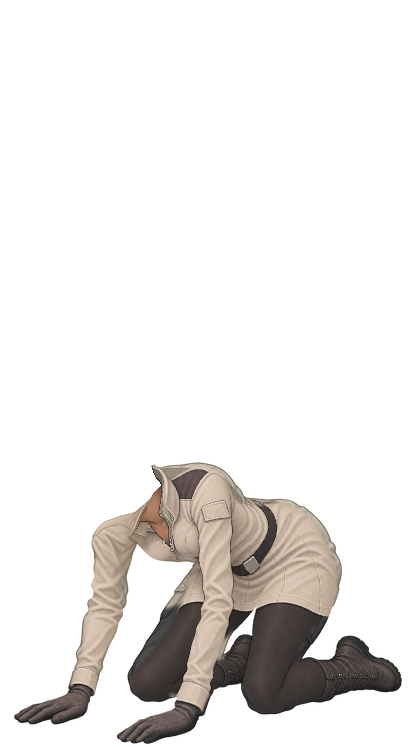
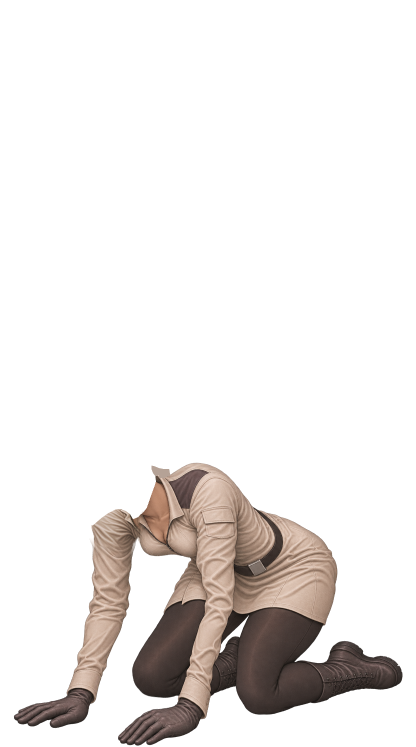
Fix W8 prisoner portrait fit and publish KA4V7N pose sheets

Changed region(s): [[0.0312, 0.6158, 0.9688, 1.0], [0.6562, 0.8929, 0.6875, 0.9237]]

diff --git a/DB/Documentation/06-Tooling/ThreeQuarterCharacterCodexPrompt.md b/DB/Documentation/06-Tooling/ThreeQuarterCharacterCodexPrompt.md
@@ -168,13 +168,30 @@ No photorealism, no 3D render, no anime eyes, no cel shading, no rim light, no m
 
 Храни исходные рисунки по позам в `work/imagegen/xxxxxx/raw/standing/<emotion>.png` и `raw/prisoner/<emotion>.png` внутри того же рабочего каталога. При генерации четырёх эмоций одним листом сохрани исходный лист, извлеки рисунки в порядке `pain, anger, joy, pleasure` и перенеси области мимики на принятую голову соответствующей позы. Запросы обеих поз запиши в `work/imagegen/xxxxxx/prompts.md`.
 
+### Обязательная проверка мимики в обеих позах
+
+1. Для каждой эмоции используй `neutral` этой позы как основу редактирования. При переносе из листа эмоций сначала совмести переносицу, кончик и основание носа, ближнее ухо и челюсть с нейтральным рисунком. Проверь эти ориентиры на наложении исходников в игровых координатах. Если они расходятся, перегенерируй эмоцию от принятого `neutral` или перерисуй мимику непосредственно на нём.
+2. Если переносишь фрагмент мимики, полностью замени область старой и новой черты вместе с прилегающей кожей. Для брови и века маска должна покрывать обе позиции их контура. Для рта включи обе линии губ и уголки. Используй 100% покрытия по всем линиям, а плавный переход проводи только по участкам кожи между чертами. Сохрани нос из `neutral` попиксельно, включая переносицу, кончик и ноздри. При пересечении границы маски с чертой перерисуй участок как единое целое.
+3. Перед публикацией перечитай оба готовых PNG. Для каждой позы проверь все пять ячеек в 1:1 и при увеличении ×4 через NEAREST. По маске, размеченной на `neutral`, сравни RGBA носа и участков вне разрешённой мимики попиксельно с первой ячейкой. Переключи `neutral` и каждую эмоцию по очереди в одной точке. На лице должна быть одна линия каждой видимой брови, один читаемый контур каждого века и рта. Проверь отсутствие остаточных штрихов, раздвоений, обрывов линий и швов на коже. Любой такой дефект блокирует публикацию атласа. Исправь кадр, заново собери атлас и повтори проверку сохранённого PNG.
+
+4. Проверь правдоподобность и соразмерность лица целиком в каждой сохранённой ячейке. Сравни размеры и положение черт с `neutral` той же позы и с перспективой головы. Учитывай движение мягких тканей при эмоции и сокращение дальней стороны лица. Просмотри следующие признаки в 1:1 и при ×4.
+
+   | Черта | Условие выпуска |
+   |---|---|
+   | Губы и рот | Верхняя и нижняя губа сходятся в тех же двух уголках. При улыбке или открытом рте контуры образуют один цельный проём. Ширина рта, высота губ и расстояние до подбородка правдоподобны для этого лица и выражения. Зубы расположены внутри проёма. Лишние линии, обрыв в уголке и разрыв рисунка на границе маски блокируют выпуск. |
+   | Брови | Каждая видимая бровь образует цельную линию над своим глазом. Сдвиг и изгиб передают эмоцию в пределах надбровной дуги. Длина и толщина согласованы с `neutral` и с ракурсом. |
+   | Нос | Переносица, кончик и ноздри образуют один объём, сохраняют ширину, высоту, ракурс и попиксельное совпадение с `neutral`. Проверь прилегающую кожу, где могут остаться штрихи от второго носа. |
+   | Глаза | Веки сходятся в уголках, совместно охватывают глаз и закрывают соответствующую часть радужки. Высота глазной щели, размер радужек и направление взгляда согласованы между глазами с учётом поворота головы. При закрытии век сохраняются их посадка и пропорции. |
+
+   Отклонение любой черты от строения лица или ракурса считается дефектом и блокирует публикацию. Исправь соответствующую эмоцию и повторно проверь её по сохранённому PNG.
+
 ## Шаг 3. Слои и регистрация
 
 Для каждой эмоции:
 
 1. Убери фон, альфа straight. Почти непрозрачное (альфа ≥ 248) сделай 255.
 2. Уменьши обратно в игровое разрешение тем же преобразованием, что подложку: ×1/5, ресемплинг BOX на premultiplied alpha, смещение (40, 0) в холсте 282×747.
-3. Проверь совмещение с `work/outfit/GREEN.uncut.png` по шее и вороту. Посадку и масштаб определи по `neutral` и зафиксируй для всех эмоций. При дрейфе отдельного рисунка совмести его мимику с нейтральным мастером до переноса бровей, век и рта. Если высота подбородка и уха верна, а кожа выступает вбок либо образует выемку, оставь голову на месте. В нижней части слоя `face` восстанови контур из общего тела. Сохрани тень под челюстью внутри контура, а на боковых кромках передай покрытие общему слою шеи. Применяй принятую посадку ко всем пяти эмоциям.
+3. Проверь совмещение с `work/outfit/GREEN.uncut.png` по шее и вороту. Посадку и масштаб определи по `neutral` и зафиксируй для всех эмоций. При переносе бровей, век и рта выполни обязательную проверку мимики из шага 2. Если высота подбородка и уха верна, а кожа выступает вбок либо образует выемку, оставь голову на месте. В нижней части слоя `face` восстанови контур из общего тела. Сохрани тень под челюстью внутри контура, а на боковых кромках передай покрытие общему слою шеи. Применяй принятую посадку ко всем пяти эмоциям.
 4. Раздели на три слоя: `back-hair` (волосы позади шеи и плеч), `face` (голова, лицо, шея до ворота), `front-hair` (пряди поверх лица и плеч). Пикселей комбинезона в слоях быть не должно.
 5. Сохрани оттенок лица принятого `neutral` во всех эмоциях. Подбери `skinTone` для коррекции общей кожи. Если берёшь маски или регистрацию из `prepare_batch_layers.py`, сохрани цвет лица до его преобразования `tint_skin` к `bodySkinTarget`. Цветовую примерку выполни отдельно на шаге 5.
 
@@ -274,9 +291,9 @@ check_standing_neck("XXXXXX")
 
 Холст, точки суставов, шов и список костюмов бери из [шаблона пленного](../../../src/DeepSpaceSaga.Client/Images/Persons/W8/Clothes/Prisoner/Templates/README.md) и его [pose.json](../../../src/DeepSpaceSaga.Client/Images/Persons/W8/Clothes/Prisoner/Templates/pose.json).
 
-1. Возьми [готовую подложку пленного](../../../../DSS-Images/Characters/W8/Antropik/work/imagegen/vl8h3a/prisoner-underlay.png) (850×845) и сохрани копию как `work/imagegen/xxxxxx/prisoner-underlay.png`. Она задаёт камеру и посадку; личность, оттенок кожи и причёску бери с принятого стоящего `neutral` нового персонажа. Для обновления подложки сложи [текущее тело GREEN](../../../src/DeepSpaceSaga.Client/Images/Persons/W8/Clothes/Prisoner/GREEN.png) с головой на холсте 416×747. При наличии файла `referenceHead` из манифеста положи его в (0, 0). При его отсутствии возьми первую ячейку [проверенного атласа пленного VL8H3A](../../../src/DeepSpaceSaga.Client/Images/Persons/W8/Portraits/vl8h3a/prisoner.png) и вставь её в (48, 416). Вырежи `(41, 412, 211, 581)` с исключающими правой и нижней границами, увеличь ×5 через NEAREST и положи на однотонный фон. Для численной проверки стыка в обоих случаях используй маски шаблона.
+1. Собери свежую подложку на текущем клиентском GREEN. Для головы возьми первую ячейку проверенного атласа VL8H3A в (48, 416). Если его нет в рабочем каталоге, доступна копия из истории Git. Допустим другой проверенный игровой атлас этой позы. Вырежи область `(41, 412, 211, 581)` с исключающими правой и нижней границами, увеличь ×5 методом NEAREST на однотонном фоне и сохрани как `work/imagegen/xxxxxx/prisoner-underlay.png`. Подложка задаёт камеру и положение воротника и поднятого плеча. Личность бери из принятой стойки нового персонажа.
 2. В эталоне видна макушка, голова глубоко наклонена и повёрнута вниз-влево по экрану. Ближнее ухо находится справа и выше глаз. Глаза узкие из-за ракурса, дальний глаз частично закрыт переносицей. Кончик носа ниже глаз и левее подбородка. Челюсть уходит вверх-вправо к уху, кожа шеи подходит к открытому вороту. Альфа эталона занимает `(63, 431, 162, 547)` на общем холсте. Сохраняй масштаб черепа, наклон и положение шва. Волосы конкретного персонажа должны помещаться в ячейку и учитывать перекрытие воротника, плеча и руки. Стык с телом определяй по исходным слоям. Условие для эталона относится к голове из шаблона; форму волос нового персонажа сверяй с его собственным `neutral`.
-3. Зарегистрируй нейтральную голову в координатах тела один раз. Подгоняй переносом и при необходимости равномерным масштабированием. Сверяй макушку, ближнее ухо, переносицу, подбородок и шов на прозрачном холсте. Рисунок мимики для остальных эмоций задавай правками принятого neutral. Переноси только брови, веки и рот с прилегающей кожей. Вне этих областей копируй RGBA neutral. Сохраняй силуэт, ухо, нос, причёску и пиксели шва.
+3. Зарегистрируй нейтральную голову в координатах тела один раз. Подгоняй переносом и при необходимости равномерным масштабированием. Сверяй макушку, ближнее ухо, переносицу, подбородок и шов на прозрачном холсте. Рисунок мимики для остальных эмоций задавай правками принятого neutral. Переноси брови, веки и рот с прилегающей кожей по правилам обязательной проверки мимики из шага 2. Вне этих областей копируй RGBA neutral. Сохраняй силуэт, ухо, нос, причёску и пиксели шва.
 
 ### Готовый запрос ImageGen для пленного
 
@@ -289,8 +306,12 @@ facial structure, hairline, hairstyle, hair color and complexion.
 Draw the same person in the bowed prisoner pose, with the crown visible. The near
 ear sits above and to the right of the near eye in screen coordinates. The gaze
 points down, the bridge partly hides the far eye, the nose tip is below the eyes
-and the jaw returns upward-right to the ear. Keep the same tight neck docking
-contour and visible skin at the open collar. Keep pose and crop fixed.
+and the jaw returns upward-right to the ear. Preserve the entire near cheekbone, the cheek turning into the jaw angle and the
+rounded chin. Draw the small, continuous patch of upper throat below the jaw,
+ending at the Adam’s apple level. Give it a soft contact shadow under the chin.
+Let that patch overlap the body’s upper neck inside the open collar. Keep the nape
+hair attached in clean tapered masses, with clear skin behind the ear. Keep the
+pose and crop fixed. The guide supplies placement; trace this character’s own contours.
 Use W8 matte hand-painted rendering, brown contours, subdued warm skin shadows,
 soft upper-left light and broad, muted hair highlights.
 Expression: <emotion>. In the bowed view express it with brows, lids and mouth.
@@ -300,13 +321,15 @@ head outline and neck fixed. Export the isolated head and exposed neck on a tran
 
 Используй порядок `neutral, pain, anger, joy, pleasure`. Для pain подними внутренние края сведённых бровей и сожми веки. Для anger опусти брови к переносице и напряги рот. Для joy приподними щёки и покажи широкую улыбку. Для pleasure оставь расслабленные веки и мягкую закрытую улыбку.
 
-Сохрани пять зарегистрированных слоёв головы с прозрачным фоном в `work/imagegen/xxxxxx/prisoner-layers/<emotion>.png`. Каждый рабочий PNG имеет полный холст 416×747. Зафиксируй области мимики на собственном `neutral` до переноса остальных эмоций, чтобы проверить неизменность рисунка за их пределами.
+До переноса мимики сверь отдельный нейтральный слой с оригиналом ImageGen. Сохрани попиксельно принятый результат в `work/imagegen/xxxxxx/prisoner-neutral-fit.png` на полном холсте 416×747. Допустим один перенос и равномерное масштабирование. На увеличении ×4 проверь тот же рисунок на светлом и тёмном фоне, затем на каждом костюме. Проследи скулу от виска до угла челюсти, край под подбородком, видимую полоску собственной кожи до уровня кадыка и затылочные пряди за ухом. Признаки брака — срезанная по прямой щека, выступ или прорезь под подбородком, отдельно висящие штрихи, внутренний пунктир в волосах и светлый ореол. Если собственный контур и стык не совмещаются, исправь посадку или перерисуй нейтральный источник. Запрещено присваивать пикселям головы альфу `portraitAlpha`, вычитать из головы силуэт тела или заполнять нехватающую кожу растяжением крайнего пикселя. Заканчивай верхнюю шею внутри открытой кожи тела. Если нужен мягкий переход, разметь его только вдоль нижней кромки этого участка, сохранив скулу, челюсть и волосы по исходнику.
+
+Сохрани пять зарегистрированных слоёв головы с прозрачным фоном в `work/imagegen/xxxxxx/prisoner-layers/<emotion>.png`. Каждый рабочий PNG имеет полный холст 416×747. До переноса мимики сохрани на полном холсте одноканальные PNG `prisoner-expression-mask.png` (брови, веки и рот с прилегающей кожей) и `prisoner-nose-lock.png` (неподвижный нос). Белым отметь проверяемые области. Оба файла положи рядом с `prisoner-neutral-fit.png`.
 
 ### Экспорт и проверка пленного
 
 1. Вырежи для каждой эмоции прямоугольник `(48, 416, 184, 560)` из головы в координатах тела. Сохрани пять ячеек **136 × 144** в один ряд, слева направо, как прозрачный **680 × 144** RGBA8 PNG `prisoner.png` в общей папке `Portraits/<id>/`. Прозрачные поля сохраняют посадку.
-2. Для сборки сначала нарисуй выбранное тело `Clothes/Prisoner/{GREEN,GRAY,IVORY}.png`, затем нужную ячейку `prisoner.png` в **(48, 416)** без поворота, масштабирования или подгонки к высоте стойки. Ячейка с индексом `i` начинается в x=`136*i`. Используй общий `skinTone`. Маска стоящего тела относится только к стойке. Для коррекции открытой кожи используй `Clothes/Prisoner/Templates/skin-mask.png` и `referenceSkinTone` из шаблона позы.
-3. Выполни обязательную проверку стыка по сохранённым PNG. Перечитай `Portraits/<id>/prisoner.png` с диска и проверь формат RGBA8 и размер 680 × 144. Возьми из `Templates/pose.json` размеры ячейки, точку вставки, маску `neckProtect` и эталон альфы `portraitAlpha`. Разложи каждую ячейку на прозрачном холсте 416 × 747 в точке `drawOrigin`. Для каждого ненулевого пикселя маски `neckProtect` сравни альфу портрета с `portraitAlpha` по тем же координатам. Допуск — **0 пикселей и 0 уровней альфы**. В той же маске сверь RGBA каждого тела с эталонным GREEN до коррекции `skinTone`. Это проверяет посадку шеи и геометрию воротника, сохраняя цвет кожи персонажа.
+2. Для сборки сначала нарисуй выбранное тело `Clothes/Prisoner/{GREEN,GRAY,IVORY}.png`, затем нужную ячейку `prisoner.png` в **(48, 416)** без поворота, масштабирования или подгонки к высоте стойки. Ячейка с индексом `i` начинается в x=`136*i`. Используй общий `skinTone`. Маска стоящего тела относится только к стойке. Для коррекции открытой кожи используй `masks.skinByOutfit[ID]` или базовую `masks.skin` для костюмов с геометрией GREEN. Базовый тон задан полем `referenceSkinTone` в шаблоне позы.
+3. Перечитай сохранённый атлас RGBA8 680×144 и восстанови ячейки в `drawOrigin`. На полосе верхнего среза тела между `landmarks.upperNeckFront` и `upperNeckBack` проверь совпадение с полностью непрозрачной частью `portraitAlpha` попиксельно с допуском 0. Пример ниже строит полосу по координатам шаблона. В этой же полосе сверь пиксели каждого исходного тела с GREEN до тонирования. Более широкая маска `neckProtect` захватывает и видимый воротник. При создании портрета сверь каждый костюм с его собственным исходным PNG по хешу. Цвет и форму открытого ворота осмотри отдельно на каждой сборке. Альфу головы по всему холсту сравни с отдельно принятым `prisoner-neutral-fit.png` этого персонажа. Нижнюю кромку его полоски кожи проверь на открытой коже всех трёх тел со значением `skinTone` персонажа. У ZR8M5C прежняя проверка пропускала выступ именно там, где заканчивалась маска. Осмотри обе стороны этой границы и изолированную голову за ухом.
 4. У всех пяти ячеек должны быть одна точка вставки и одна регистрация принятого `neutral`. Сравни альфа-каналы целиком и RGBA вне областей мимики с сохранённой ячейкой `neutral`. Требуется попиксельное совпадение. Не подгоняй отдельные эмоции после экспорта. При расхождении укажи эмоцию, костюм для проверки тела и первую координату на холсте, исправь исходный слой и повтори проверку после сохранения.
 5. Собери пять эмоций на каждом доступном костюме пленного из перечитанных PNG. Проверь, что у воротника нет просветов и что в портрет не попала ткань. Проверь отличимость выражений и узнаваемость персонажа между позами.
 
@@ -342,6 +365,25 @@ def export_prisoner(character):
         guard = np.array(mask) > 0
     with Image.open(template / pose["masks"]["portraitAlpha"]) as ref:
         expected = np.array(ref)
+    front, back = (pose["landmarks"][k] for k in ("upperNeckFront", "upperNeckBack"))
+    yy, xx = np.indices(expected.shape)
+    lo, hi = sorted((front[0], back[0]))
+    assert hi > lo
+    cut_y = front[1] + (xx - front[0]) * (back[1] - front[1]) / (back[0] - front[0])
+    # Полоса включает сглаженную верхнюю дугу между двумя точками.
+    seam = guard & (expected == 255) & (xx >= lo) & (xx <= hi) & (np.abs(yy - cut_y) <= 4)
+    assert seam.any() and np.all(seam[:, lo:hi+1].any(axis=0)), "incomplete neck seam"
+    with Image.open(layers.parent / "prisoner-neutral-fit.png") as master:
+        assert master.mode == "RGBA" and master.size == tuple(pose["canvas"])
+        own_neutral = np.array(master.crop(box))
+    assert np.array_equal(cells[0], own_neutral), "neutral differs from accepted artwork"
+    locks = {}
+    for key in ("expression-mask", "nose-lock"):
+        with Image.open(layers.parent / f"prisoner-{key}.png") as mask:
+            assert mask.mode == "L" and mask.size == tuple(pose["canvas"]), key
+            locks[key] = np.array(mask.crop(box)) > 0
+            assert locks[key].any(), key
+    fixed = ~locks["expression-mask"] | locks["nose-lock"]
     with TemporaryDirectory(dir=target.parent) as stage:
         candidate = Path(stage) / target.name
         Image.fromarray(np.concatenate(cells, axis=1)).save(candidate)
@@ -351,9 +393,10 @@ def export_prisoner(character):
                 cell = np.array(image.crop((i*w, 0, (i+1)*w, h)))
                 assert np.array_equal(cell, cells[i]), emotion
                 assert np.array_equal(cell[..., 3], cells[0][..., 3]), emotion
+                assert np.array_equal(cell[fixed], own_neutral[fixed]), emotion
                 full = np.zeros(expected.shape, dtype=np.uint8)
                 full[y:y+h, x:x+w] = cell[..., 3]
-                assert np.array_equal(full[guard], expected[guard]), emotion
+                assert np.array_equal(full[seam], expected[seam]), emotion
         candidate.replace(target)
 
 export_prisoner("XXXXXX")

diff --git a/DB/Documentation/06-Tooling/ThreeQuarterOutfitCodexPrompt.md b/DB/Documentation/06-Tooling/ThreeQuarterOutfitCodexPrompt.md
@@ -1,14 +1,19 @@
-# Промпт Codex для нового костюма W8 в три четверти
+# Промпт Codex для нового костюма W8 в двух позах
 
 Скопируй всё ниже линии. Подставь ID костюма и описание. Костюм использует ту же фигуру и точку крепления головы, что и первый костюм GREEN. Рисунок одежды можно менять в разрешённой области. Посадка общих портретов обеспечивается попиксельным сохранением базовой геометрии.
 
 ---
 
-Поза пленного использует [свой шаблон](../../../src/DeepSpaceSaga.Client/Images/Persons/W8/Clothes/Prisoner/Templates/README.md). Для неё бери холст 416 × 747, ориентиры, маску шеи и область восстановления правого плеча из этого шаблона.
+По одному запросу выпусти один дизайн в двух позах под одним ID. Сначала подготовь стойку в три четверти, затем перенеси её дизайн на готовое тело пленного. Оба результата — отдельные PNG тела без головы. Для проверки используй пять эмоций VL8H3A в каждой позе.
+
+| Поза | Клиентский PNG относительно `Images/Persons/W8/` | Манифест | Значение `outfits[ID]` |
+|---|---|---|---|
+| Стойка | `Clothes/ThreeQuarterOutfit/<ID>.png` | [three-quarter-right/pose.json](../../../../DSS-Images/Characters/W8/Antropik/three-quarter-right/pose.json) | `Clothes/ThreeQuarterOutfit/<ID>.png` |
+| Пленный | `Clothes/Prisoner/<ID>.png` | [Clothes/Prisoner/Templates/pose.json](../../../src/DeepSpaceSaga.Client/Images/Persons/W8/Clothes/Prisoner/Templates/pose.json) | `../<ID>.png` |
 
 ## Параметры
 
-- ID костюма — новый ключ из заглавных букв `A–Z`, например `UTILITY`. Проверь, что ключ свободен в `pose.json → outfits` и в клиентском каталоге костюмов ещё нет файла `<ID>.png`.
+- ID костюма — новый ключ из заглавных букв `A–Z`, например `UTILITY`. До генерации проверь, что ID свободен в обоих словарях `outfits`, обоих клиентских каталогах и по пути `work/outfit/<ID>.uncut.png`. При занятом ID сохрани существующие файлы и записи.
 - Описание — назначение костюма, цвета, материалы и детали. Изменения должны помещаться внутри контура GREEN.
 - По умолчанию готовь новый рисунок одежды. Если запрошена только расцветка, примени перекраску из шага 3.
 
@@ -21,7 +26,7 @@
 
 Рабочая папка — `D:/DeepSpaceSaga/DSS-Images/Characters/W8/Antropik`. Python — `D:/DeepSpaceSaga/DSS-Images/tools/modular-character-pilot/.venv/Scripts/python.exe`.
 
-Каталог готовых костюмов — `D:/DeepSpaceSaga/DSS/src/DeepSpaceSaga.Client/Images/Persons/W8/Clothes/ThreeQuarterOutfit`.
+Клиентский корень W8 — `D:/DeepSpaceSaga/DSS/src/DeepSpaceSaga.Client/Images/Persons/W8`. Зафиксируй исходное состояние обоих манифестов, базовых тел, направляющих, масок и [портрета VL8H3A](../../../src/DeepSpaceSaga.Client/Images/Persons/W8/Portraits/vl8h3a). Шаги 1–4 относятся к стойке.
 
 ## Шаг 1. Зафиксируй базу и области правки
 
@@ -69,12 +74,26 @@ Keep details inside the original body silhouette.
 
 Проверь точное равенство массивов. В отчёте об ошибке укажи первую координату, число отличающихся пикселей и ожидаемый слой. Если проверка выявила изменение защищённой области, восстанови её из GREEN и повтори проверку сохранённого файла.
 
-В изолированной копии конфигурации добавь путь временного кандидата в `outfits` и укажи в `portraitAtlas` абсолютный шаблон до клиентского `W8/Portraits/{id}/threequarter.png`. Скопируй в конфигурацию направляющую по пути `neckSeam.bodyGuide` и сохрани `neckSeam.bodyHasFullNeck = true`. Запусти `tools/dss3q.py validate --pose <временная папка позы> --outfit <ID> --character 73R83G`. Эта команда сверяет верх шеи с направляющей и проверяет непрозрачность строки стыка. Сравнения из таблицы отдельно гарантируют соответствие базовому костюму.
+В изолированной копии конфигурации добавь путь временного кандидата в `outfits` и укажи в `portraitAtlas` абсолютный шаблон до клиентского `W8/Portraits/{id}/threequarter.png`. Скопируй в конфигурацию направляющую по пути `neckSeam.bodyGuide` и сохрани `neckSeam.bodyHasFullNeck = true`. Запусти `tools/dss3q.py validate --pose <временная папка позы> --outfit <ID> --character VL8H3A`. Эта команда сверяет верх шеи с направляющей и проверяет непрозрачность строки стыка. Вызови `dss3q.compose_image` с той же временной позой, `VL8H3A`, новым ID и каждой эмоцией из `expressions`. Компоновщик читает `threequarter.png` (720 × 190) и накладывает ячейку 144 × 190 в (69, 0) с учётом цельной шеи тела. Проверь наружный контур под ухом и открытый ворот на готовых кадрах. Сравнения из таблицы отдельно гарантируют соответствие базовому костюму.
 
 Осмотри сам костюм в масштабе 1:1. Попиксельные условия выше покрывают совместимость с портретами всех эмоций, поэтому ручная примерка каждой головы при выпуске костюма не требуется. Если дизайн нуждается в новом контуре, другом вырезе или сдвиге точки шеи, он выходит за контракт совместимого костюма W8.
 
-## Шаг 5. Экспорт
+## Шаг 5. Перенеси дизайн на готовый шаблон пленного
 
-1. Сохрани проверенный цельный костюм в `work/outfit/<ID>.uncut.png`. Скопируй этот же файл под именем `<ID>.png` в клиентский каталог `Images/Persons/W8/Clothes/ThreeQuarterOutfit` и добавь ключ `<ID>` со значением `Clothes/ThreeQuarterOutfit/<ID>.png` в `pose.json → outfits`. Рабочий компоновщик разрешает этот путь относительно клиентского W8. Маска открытой кожи остаётся общей для совместимых костюмов.
-2. Проверь равенство SHA-256 рабочего и клиентского PNG, проверь контрольные суммы эталонов и убедись, что в `pose.json` добавилась только новая запись костюма. Сверь, что `Pose.outfit_path(<ID>)` указывает на клиентский PNG.
-3. Удали временные проверочные файлы текущего запуска. В чат дай короткий ответ с путём к PNG и результатом проверок. Проверочные картинки в ответ не прикладывай. Коммит выполняй только по запросу.
+1. Загрузи [шаблон пленного](../../../src/DeepSpaceSaga.Client/Images/Persons/W8/Clothes/Prisoner/Templates/pose.json). Все его пути разрешай относительно каталога `Templates`. Для геометрии используй `referenceBody` (готовый `Prisoner/GREEN.png`), `landmarks`, `groundRow` и [BODY-GUIDE.png](../../../src/DeepSpaceSaga.Client/Images/Persons/W8/Clothes/Prisoner/Templates/BODY-GUIDE.png). Холст 416 × 747. Правое плечо персонажа находится слева на изображении и уже дорисовано в GREEN.
+2. Для нового рисунка передай ImageGen тело пленного как основу позы и готового стоящего кандидата как образец одежды. Повтори материалы, цвета, панели, застёжки и отделку на согнутом теле. Сохрани положение шеи, ворота, обоих плеч, локтей, кистей, коленей и стоп по шаблону. Для одной расцветки используй тот же рецепт цвета и тени исходного тела пленного.
+3. Начни с копии `referenceBody`. В координатах пленного выдели ткань по его собственному рисунку. Переноси новый RGB только внутрь непрозрачной ткани с нулём в масках `masks.skin` и `masks.neckProtect`. Маски шаблона читай как одноканальные изображения L. Сохрани исходную альфу по всему холсту, исходный RGBA кожи, зоны шеи и сглаженных краёв. В зоне `masks.allowedRightShoulderFill` можно менять рисунок ткани с сохранением заполнения и контура восстановленного плеча. Сохрани кандидата как RGBA8 со straight alpha.
+
+## Шаг 6. Проверь пленного по сохранённым PNG
+
+- Перечитай кандидата и сверь его размеры и альфу со всем `masks.referenceBodyAlpha`. Отдельно сравни альфу с этим эталоном на каждом ненулевом пикселе `masks.allowedRightShoulderFill`. Контроль плеча выполняй на теле без головы, включая переход в рукав и просвет между руками.
+- На каждом ненулевом пикселе `masks.neckProtect` и `masks.skin` сравни все четыре канала кандидата с `referenceBody` до коррекции `skinTone`. Допуск для шеи, кожи и альфы плеча — ноль. При расхождении укажи маску, координату первого пикселя и число отличий. Исправь кандидата и повтори проверку.
+- Для примерки загрузи [VL8H3A/prisoner.png](../../../src/DeepSpaceSaga.Client/Images/Persons/W8/Portraits/vl8h3a/prisoner.png) и настройки VL8H3A. Этот атлас служит источником головы и для нейтральной подложки. Разрежь его на пять ячеек 136 × 144 слева направо по `expressions`. Для каждой ячейки положи её на прозрачный холст в `portrait.drawOrigin` (48, 416). В `neckProtect` её альфа должна попиксельно совпадать с `masks.portraitAlpha`.
+- Наложи каждую ячейку поверх кандидата в той же точке в масштабе 1:1. Проверь сопряжение с воротником, оттенок открытой кожи по [контракту skinTone](ThreeQuarterCharacterSkinTone.md) и форму правого плеча на собранных кадрах. Для всех пяти эмоций используй один и тот же PNG тела и одну точку вставки.
+
+## Шаг 7. Опубликуй проверенную пару
+
+1. Подготовь два PNG и копии обоих манифестов во временном каталоге запуска. В каждом словаре `outfits` добавь один и тот же ID с путём из таблицы. Приступай к публикации после успешных проверок обеих поз и десяти сборок VL8H3A.
+2. Сохрани цельную стойку в `work/outfit/<ID>.uncut.png`, скопируй её побайтно в `Clothes/ThreeQuarterOutfit/<ID>.png`. Запиши проверенное тело пленного в `Clothes/Prisoner/<ID>.png`. Обнови оба манифеста. Если часть выпуска завершилась ошибкой, убери только созданные этим запуском файлы и записи нового ID в обоих манифестах.
+3. Перечитай оба манифеста. Для стойки разреши путь через `Pose.outfit_path(<ID>)`, для пленного — относительно `Prisoner/Templates`. Оба пути должны вести к соответствующим клиентским PNG из таблицы. Сверь SHA-256 опубликованных файлов с проверенными кандидатами, равенство стоящей пары рабочий/клиентский PNG и сохранность эталонов. Сравни каждый манифест с исходным по значениям полей: единственная правка — новая запись в `outfits`.
+4. Удали временные проверочные файлы текущего запуска. В ответе укажи ID, оба клиентских пути и результаты проверок шеи и правого плеча. Лист сборок прикладывай по запросу. Коммит выполняй по запросу.

diff --git a/DB/Board/EP-maintenance/Done/EP-maintenance-US-0023-modular-portrait-fit/EP-maintenance-US-0023-TK-0003-prisoner-neck-seam/EP-maintenance-US-0023-TK-0003-prisoner-neck-seam.md b/DB/Board/EP-maintenance/Done/EP-maintenance-US-0023-modular-portrait-fit/EP-maintenance-US-0023-TK-0003-prisoner-neck-seam/EP-maintenance-US-0023-TK-0003-prisoner-neck-seam.md
@@ -19,3 +19,29 @@ serves: [AC3]
 ## Проверки
 
 У PR7N2K изначально было ноль расхождений. У KR4M2V после исправления ноль расхождений вместо 443 на эмоцию. Альфа всех эмоций каждого атласа совпадает с его нейтральной ячейкой. Оба атласа стойки подтверждены по SHA-256. Собраны все 15 сочетаний KR4M2V.
+
+Перерисована открытая шея на GREEN, GRAY и IVORY. Обновлены маска тонирования и изображение шаблона. Сохранённые тела совпали с эталоном по альфе холста, попиксельно совпали между собой в защищённой зоне шеи и сохранили RGBA правого плеча. Проверены 15 сочетаний ZR8M5C. В промпт портретов добавлена проверка правдоподобности и соразмерности губ, бровей, носа и глаз для каждой эмоции обеих поз.
+
+## Повторная отрисовка тела пленного
+
+GREEN, GRAY и IVORY нарисованы целиком с временной лысой головой. Для отделения головы использован размер 10 × 12 пикселей, около 10% исходного габарита по каждой оси. После удаления головы перерисованы обе плечевые зоны и открытая шея до воротника. Для трёх тел обновлены общая маска кожи, силуэт и направляющая GREEN. Под волосами у затылка расширено перекрытие заднего края воротника на 29 пикселей внутри уже существующего силуэта сборок. Положение суставов и точка наложения атласа сохранены.
+
+Проверены 150 сочетаний десяти наборов голов, пяти эмоций и трёх сохранённых тел. ZR8M5C прочитан из клиента, NE5C8L, RA7D3F, TS4K9B и VL8H3A из атласов в Git. Для DM7Q4S, HK2V8R, KR4M2V, MT6Q2R и YB6N3T проверена геометрия по рабочим слоям с базовым тоном. У всех 50 ячеек альфа стыка совпала с шаблоном. Проверены защищённая зона шеи, маска skinTone, альфа правого плеча, наружный силуэт при наложении и отсутствие внутренних просветов у затылка. [Итоговая сборка](D:/DeepSpaceSaga/artifacts/validation/w8-prisoner-headed-redraw/20261123-b/Prisoner-neck-assemblies.png).
+
+## Посадка по референсу с лысой головой
+
+GREEN, GRAY и IVORY отрисованы целиком с лысой головой обычного размера. На отдельном слое тела оставлена шея до линии над кадыком. После отделения головы восстановлены скрытые ею плечо и воротник. Точка плеча без кармана на левой стороне рисунка поднята с (105, 529) до (105, 511). Кисти, локти и нижняя часть позы сохранили свои опоры. В шаблон внесены две точки верхнего края шеи, обновлены эталонная альфа тела, направляющая и маски шеи, тонирования и плеча.
+
+Проверены 150 композиций из трёх сохранённых тел, десяти наборов голов и пяти эмоций. Из них один набор взят из текущего игрового каталога, четыре из игровых атласов в Git и пять из рабочих слоёв с базовым тоном тела. Во всех проверенных кадрах верхняя граница шеи закрыта непрозрачными пикселями головы. Проверены отсутствие внутренних просветов у стыка, равенство RGBA общей кожи, геометрия плеча и положение атласа. [Сравнение на ZR8M5C](D:/DeepSpaceSaga/artifacts/validation/w8-prisoner-upper-neck/20261123-v1/Prisoner-shoulder-neck-comparison.png).
+
+## Шея и ворот после отрисовки полной головы
+
+Повторно перерисованы GREEN, GRAY и IVORY. У каждого исходника есть полноразмерная лысая голова. После привязки к холсту 416 × 747 голова отделена выше гортани. На теле остались нижняя часть шеи, переход к ключицам и ворот. Верх скрытого плеча и небольшой нахлёст под волосами взяты из предыдущей геометрии для сохранения стыка.
+
+Проверены три сохранённых PNG, маски кожи и 75 сборок в точке (48, 416). Использованы пять эмоций ZR8M5C из рабочей копии и по пять эмоций NE5C8L, RA7D3F, TS4K9B и VL8H3A из Git. Новых замкнутых просветов на стыке нет. Клиент не запускался. [Отрисовки и сравнение](D:/DeepSpaceSaga/artifacts/validation/w8-prisoner-neck-anatomy/20261123/Prisoner-neck-comparison.png).
+
+## Скула, затылок и верхняя часть шеи в атласе пленного
+
+Сравнение исходного рисунка ZR8M5C с прежним `prisoner.png` показало, что при регистрации альфа чужой головы срезала часть щеки и шеи и оставляла прорези за ухом. В инструкции генерации контур лица и волос сверяется с собственным принятым исходником. Попиксельная привязка к шаблону сохраняется на верхнем срезе шеи тела. При экспорте проверяются неизменность альфы между эмоциями, нос и пиксели вне областей мимики.
+
+По обновлённой инструкции создан KA4V7N. Проверены 30 сборок из сохранённых атласов двух поз, три костюма и пять эмоций. У ZR8M5C исправлены все пять ячеек пленного, сохранены исходные выражения. Верхний срез шеи закрыт обеими головами во всех кадрах. Тела и стойка ZR8M5C сверены по исходным хешам. Сборки выполнены из клиентских PNG с `skinTone` по контракту, без запуска клиента. [KA4V7N на трёх костюмах](D:/DeepSpaceSaga/artifacts/validation/w8-ka4v7n/20261123-new/KA4V7N-prisoner-3x5.png) · [ZR8M5C до и после](D:/DeepSpaceSaga/artifacts/validation/w8-zr8m5c-chin/1795415047539/ZR8M5C-prisoner-before-after.png).

diff --git a/src/DeepSpaceSaga.Client/Images/Persons/W8/Clothes/Prisoner/Templates/README.md b/src/DeepSpaceSaga.Client/Images/Persons/W8/Clothes/Prisoner/Templates/README.md
@@ -2,7 +2,7 @@
 
 `pose.json` задаёт холст 416 × 747, координаты опор и посадку атласа в (48, 416). Правая сторона тела находится слева на изображении. Точки описывают видимые или оценённые центры суставов, а попиксельную геометрию задают эталонные PNG и маски. `BODY-GUIDE.png` показывает область y=416–746 с увеличением ×2.
 
-1. Собери `../GREEN.png` и `../GREEN.head.png` в (0, 0) для подложки. На референсе разметь ворот, плечи, локти, запястья, ладони, пальцы, талию, таз, колени, лодыжки и носки. Сверь новый рисунок по точкам в `pose.json`.
+1. Собери `../GREEN.png` и `REFERENCE-HEAD.png` в (0, 0) для подложки. На референсе разметь ворот, плечи, локти, запястья, ладони, пальцы, талию, таз, колени, лодыжки и носки. Сверь новый рисунок по точкам в `pose.json`.
 2. Возьми силуэт `green-body-alpha.png` с уже дорисованным правым плечом. Маска `shoulder-right-mask.png` отмечает участок, где восстановили силуэт. Сохраняй контур плеча и его переход в рукав. При примерке проверь прозрачный просвет между руками, линию шеи и положение правой руки.
-3. Сохраняй RGBA исходного тела в `neck-protect.png`. `portrait-alpha.png` задаёт перекрытие эталонной головы. `skin-mask.png` задаёт непрозрачность коррекции кожи в координатах тела. Маски серые, от чёрного (0) до белого (255). Не переносить в тело части лица или волос.
+3. Сохраняй RGBA исходного тела в `neck-protect.png`. `portrait-alpha.png` задаёт перекрытие эталонной головы. `masks.skinByOutfit` задаёт маску тонирования для каждого костюма. Для GREEN и производных от его геометрии используется `skin-mask.png`. Маски серые, от чёрного (0) до белого (255). Не переносить в тело части лица или волос.
 4. Экспортируй тело в RGBA8 416 × 747. Проверь чистоту антиалиасинга, пятку/носок и контакт кистей и коленей с полом. Собери тело и все ячейки атласа без трансформаций.

diff --git a/DB/Documentation/06-Tooling/ThreeQuarterCharacterSkinTone.md b/DB/Documentation/06-Tooling/ThreeQuarterCharacterSkinTone.md
@@ -23,7 +23,7 @@
 
 Рабочий источник маски для GREEN и GRAY — [skin-mask.png](../../../../DSS-Images/Characters/W8/Antropik/work/outfit/skin-mask.png). При подготовке игровой маски берите её альфа-канал, нормализуйте как `min(alpha / 248, 1)` и обнуляйте маску на прозрачных пикселях экспортированного тела и в зоне [fabric-mask.png](../../../../DSS-Images/Characters/W8/Antropik/work/outfit/fabric-mask.png). Упакуйте маску вместе с игровым ассетом тела в тех же размерах и координатах. В маску входят шея и кожа в вырезе. Ткань, молния и воротник получают вес 0.
 
-Для пленного используйте вес из [маски тела](../../../src/DeepSpaceSaga.Client/Images/Persons/W8/Clothes/Prisoner/Templates/skin-mask.png), делённый на 255, и вычисляйте `gain = skinTone / referenceSkinTone` по шаблону этой позы. Тон кожи головы уже заложен в `prisoner.png`.
+Для пленного берите имя маски из `masks.skinByOutfit[ID]` или используйте `masks.skin` для костюмов с геометрией GREEN. Обе записи находятся в [шаблоне позы](../../../src/DeepSpaceSaga.Client/Images/Persons/W8/Clothes/Prisoner/Templates/pose.json). Делите значение маски на 255 и вычисляйте `gain = skinTone / referenceSkinTone`. Тон кожи головы уже заложен в `prisoner.png`.
 
 ### Стык с атласом
 
